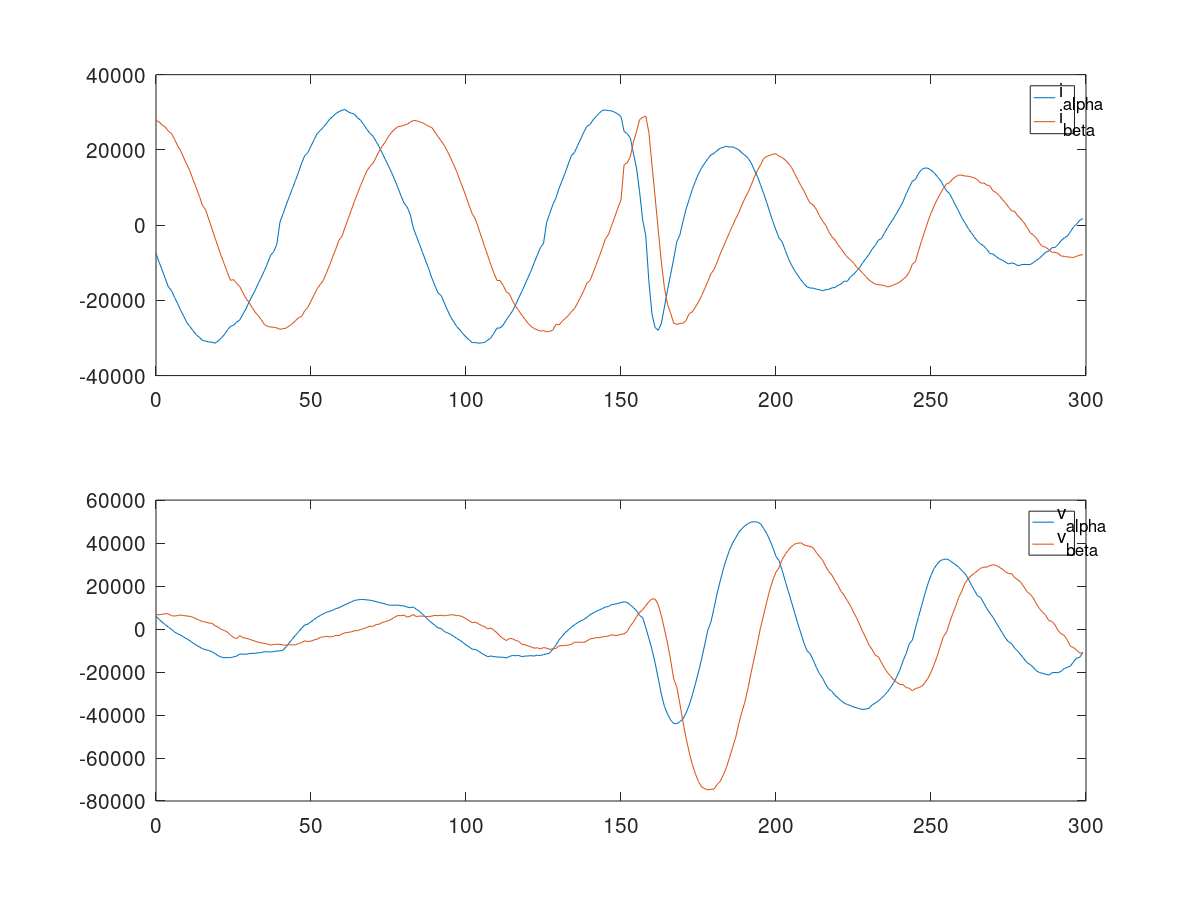
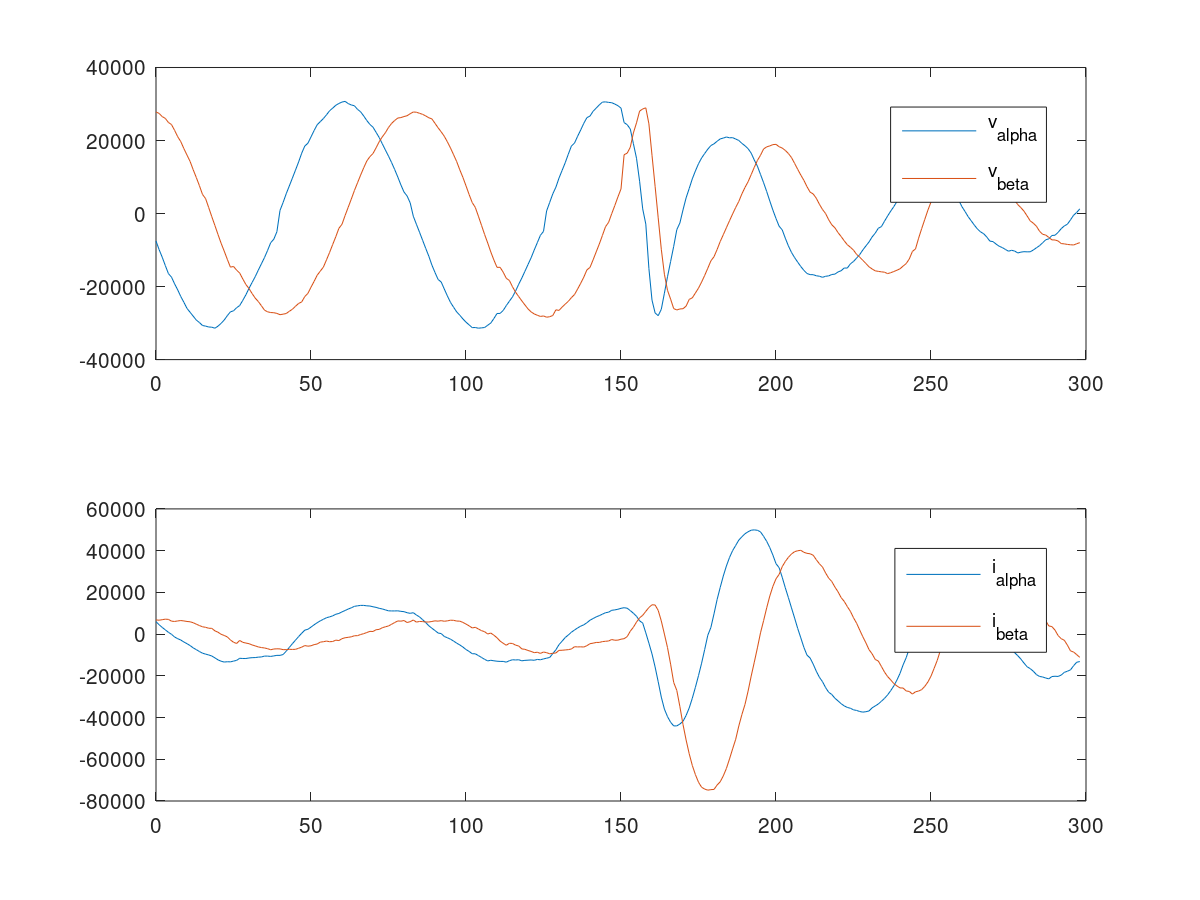
started parameter optimizer

diff --git a/observer_test.m b/observer_test.m
@@ -5,20 +5,39 @@ file = fullfile(path, filename);
 % Datei mit ; getrennt einlesen
 data = dlmread(file, ";");
 
-% Erste Zeile ignorieren und die Spalten einzeln speichern
-t = data(2:end, 1);
-ia = data(2:end,2);
-ib = data(2:end,3);
-va = data(2:end,4);
-vb = data(2:end,5);
-hall_angle = data(2:end,6);
-vdc = data(2:end,7);
+stop = 150;
 
-% Einmal plotten bitte
-subplot(2,1,1);
-plot(t,va,t,vb);
-legend("i_{alpha}","i_{beta}");
-subplot(2,1,2);
-plot(t,ia,t,ib);
-legend("v_{alpha}","v_{beta}");
+% Erste Zeile ignorieren und die Spalten einzeln speichern
+t = data(2:stop, 1);
+ia = data(2:stop,2);
+ib = data(2:stop,3);
+va = data(2:stop,4);
+vb = data(2:stop,5);
+hall_angle = data(2:stop,6)*pi/127;
+vdc = data(2:stop,7);
+
+
+function error = observer(x)
+stop = 150;
+r = x(1);
+l = x(2);
+% Back EMF, Integrator
+fa = zeros(stop-1,1);
+fb = zeros(stop-1,1);
+for i = 1:stop-2
+fa(i + 1) = fa(i) + (va(i) - r*ia(i)); 
+fb(i + 1) = fb(i) + (vb(i) - r*ib(i));
+endfor
+fba = fa - (max(fa) + min(fa))/2;
+fbb = fb - (max(fb) + min(fb))/2;
+fa = fba - l*ia;
+fb = fbb - l*ib;
+
+phi = atan2(fa,fb);
+
+error = mean(sin(hall_angle) .* cos(phi) + cos(hall_angle) .* sin(phi));
+end 
+
+fsolve(@observer, [0.1,1e-4]);
+
 
